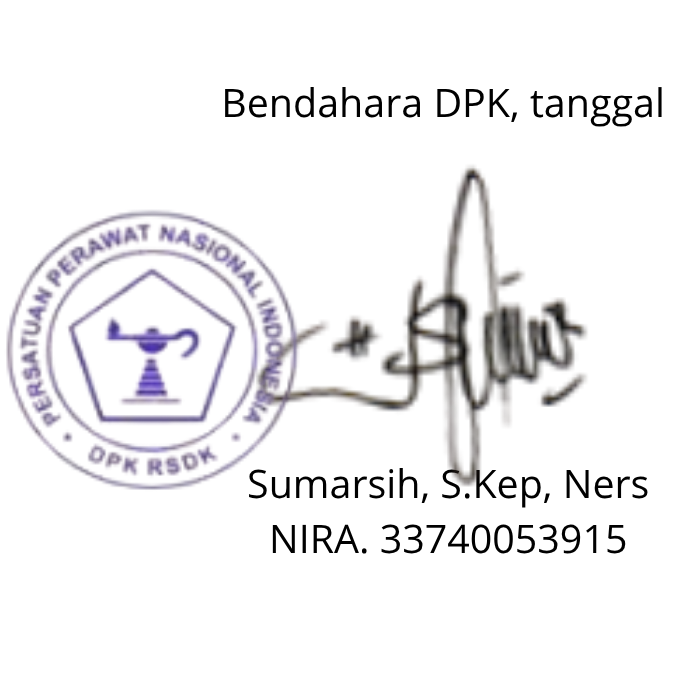
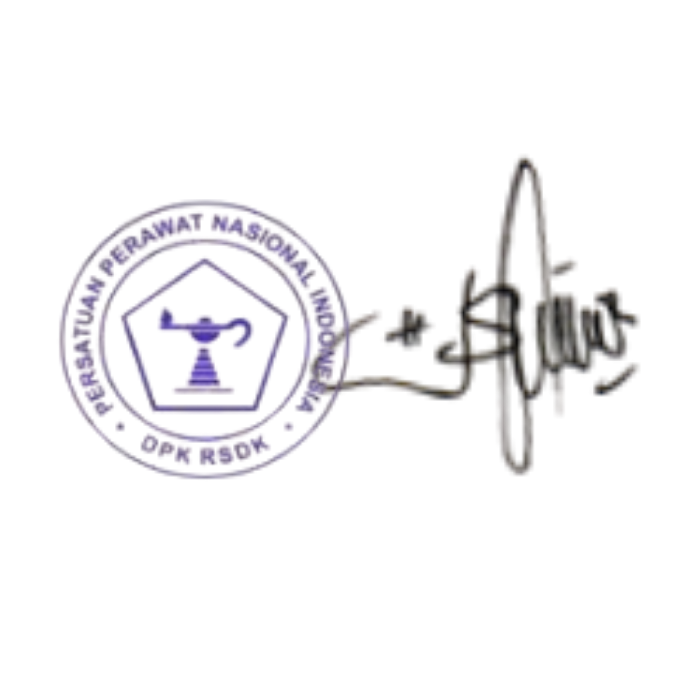
Update official Bendahara DPK PPNI signature and stamp image with enhanced multiply blending

diff --git a/src/components/InvoiceModal.tsx b/src/components/InvoiceModal.tsx
@@ -281,11 +281,11 @@ Panitia Pelaksana Webinar Nasional`;
                 </p>
 
                 {/* Stempel & Tanda Tangan Image */}
-                <div className="my-1.5 relative w-48 h-24 flex items-center justify-center">
+                <div className="my-1 relative w-56 h-28 flex items-center justify-center">
                   <img 
                     src={ttdBendahara} 
                     alt="Tanda Tangan & Stempel Bendahara DPK PPNI" 
-                    className="max-h-24 w-auto object-contain"
+                    className="max-h-28 w-auto object-contain mix-blend-multiply filter contrast-125 hover:scale-105 transition-transform"
                   />
                 </div>
 
